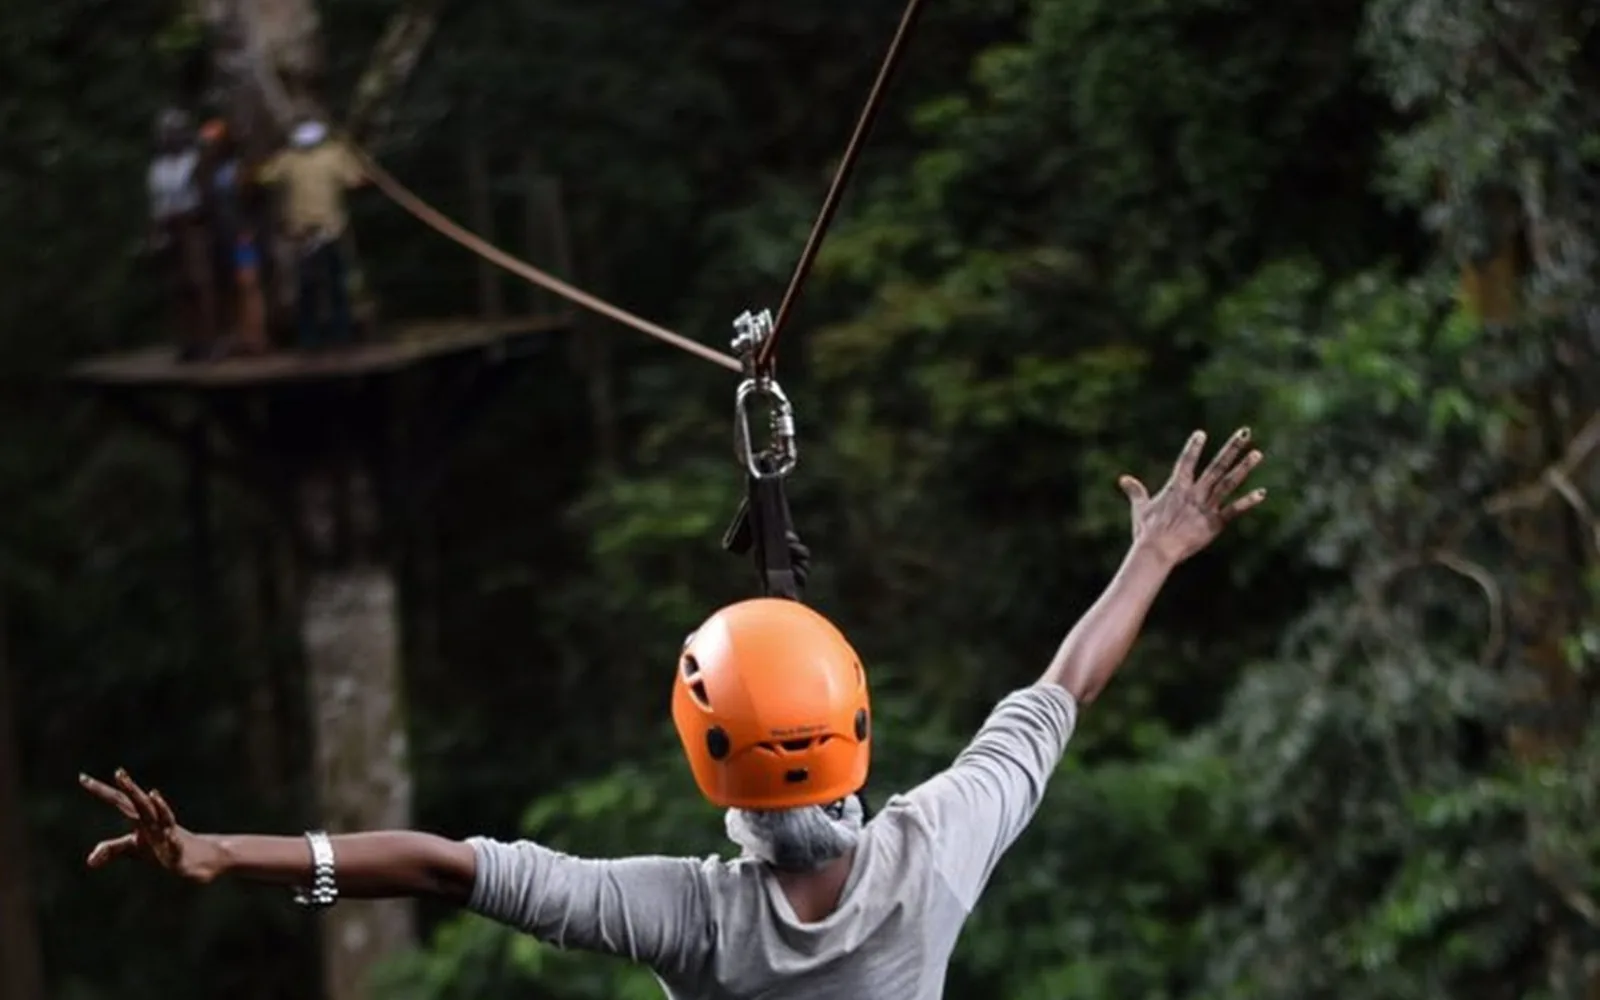
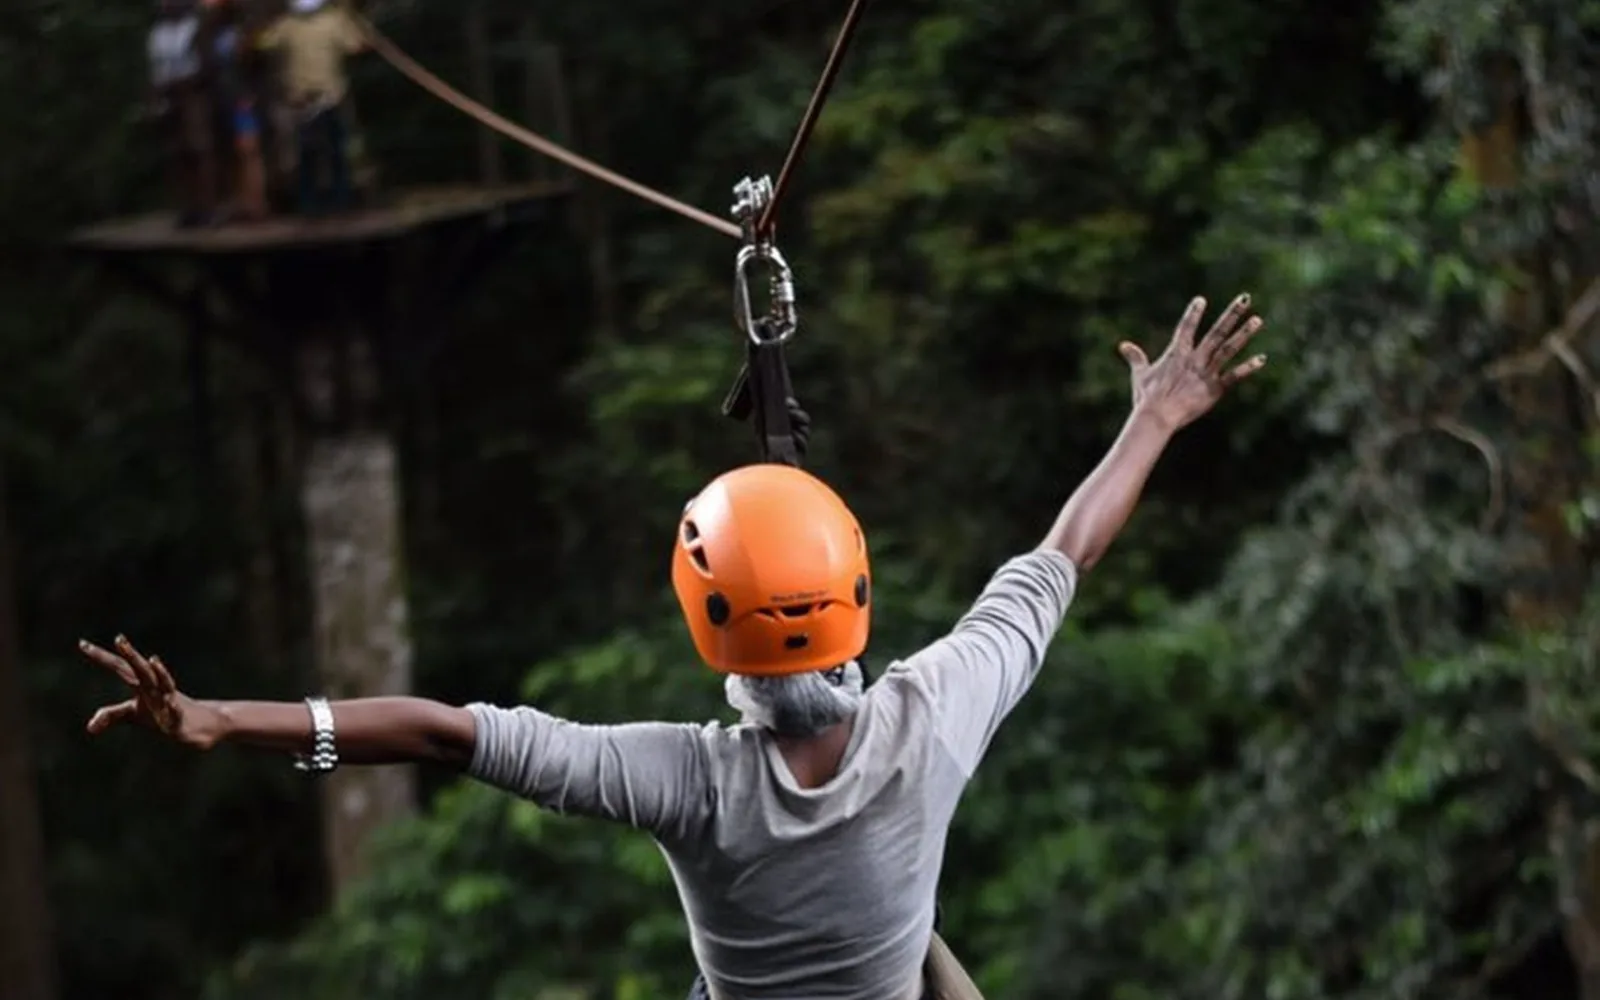
Adventure: crop the Ella zip line photo (16:10, unchanged frame) from the wider original, from the top so the cable and carabiner are fully in frame

diff --git a/lib/adventure-data.ts b/lib/adventure-data.ts
@@ -80,7 +80,7 @@ export const ADVENTURES: Adventure[] = [
     icon: 'zipline',
     image: '/images/adventure-ella-zip-line',
     imageAlt: 'A rider in an orange helmet gliding along a zip line above the forest',
-    imagePosition: '50% 12%', // keep the cable and carabiner in frame when the box is wide and short
+    imagePosition: '50% 0%', // keep the top (cable and carabiner) in frame when the box crops the photo
   },
   {
     number: '03',
